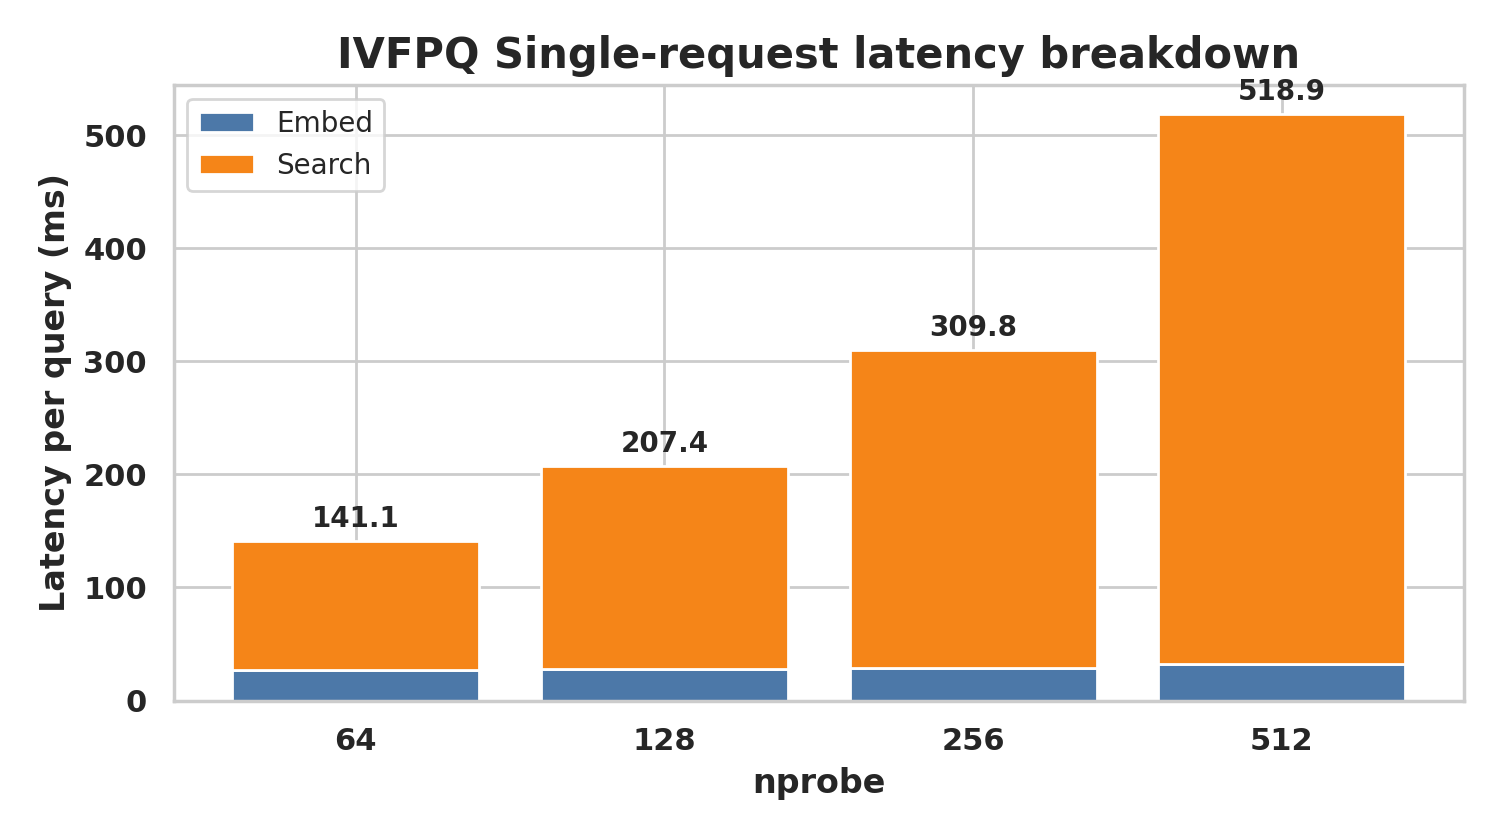
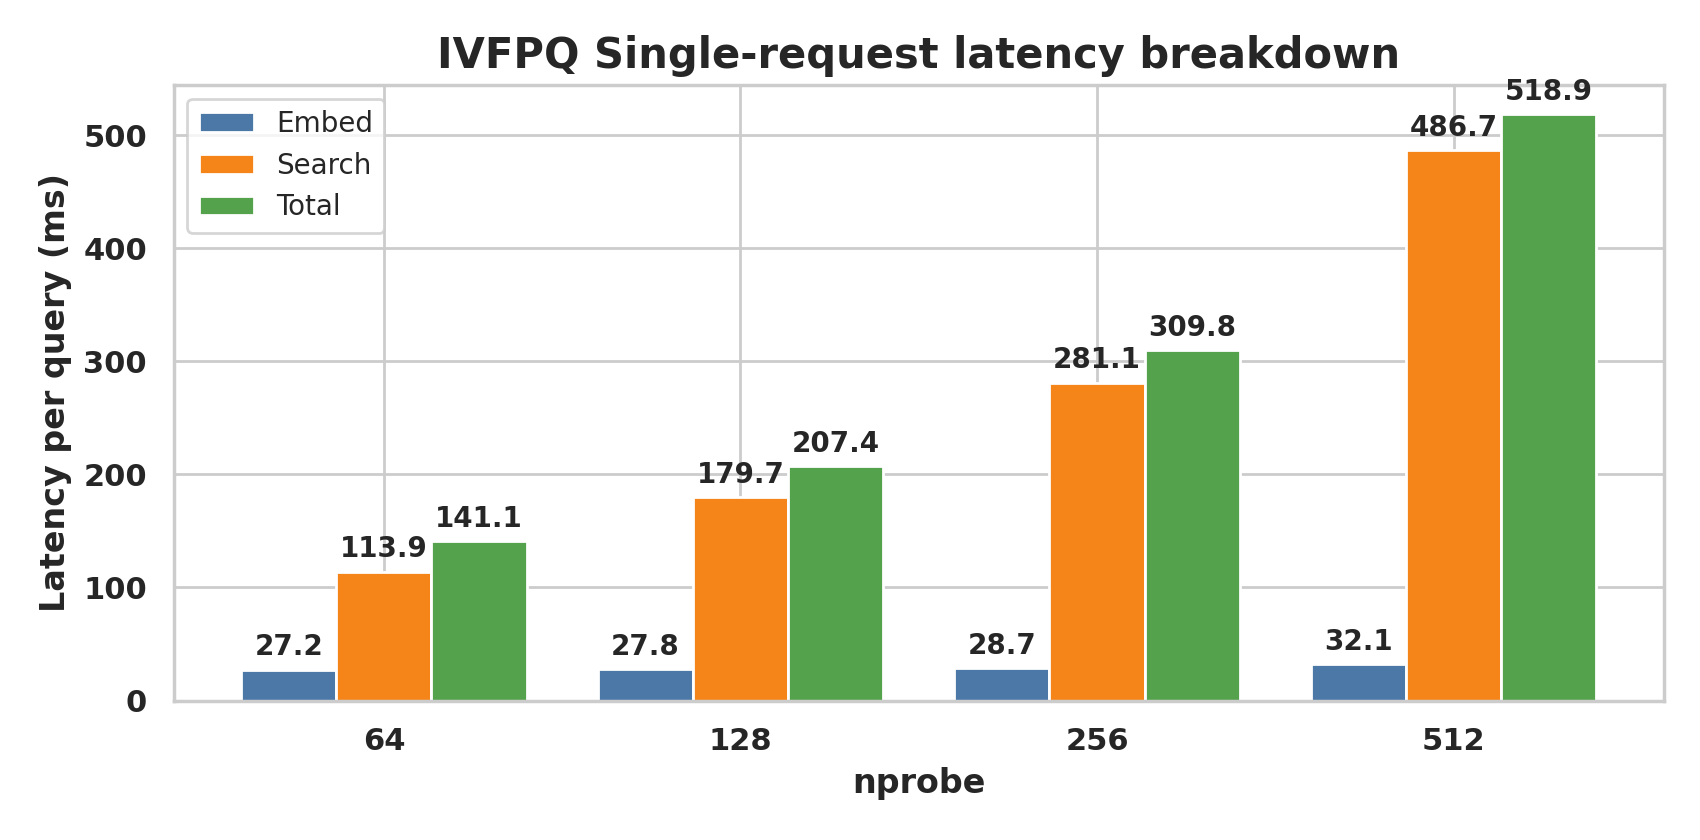
plots caption and layout changes

diff --git a/scripts/plot_faiss_batch_vs_single.py b/scripts/plot_faiss_batch_vs_single.py
@@ -76,29 +76,39 @@ def _plot_qps(rows: List[Dict[str, float]], mode_label: str, filename: str) -> s
 
 def _plot_latency(rows: List[Dict[str, float]], mode_label: str, filename: str) -> str:
     labels = [str(r["nprobe"]) for r in rows]
-    embed = [r["embed"] for r in rows]
-    search = [r["search"] for r in rows]
-    totals = [r["total"] for r in rows]
+    metrics = [
+        ("embed", "Embed", COLOR_EMBED),
+        ("search", "Search", COLOR_SEARCH),
+        ("total", "Total", "#54A24B"),
+    ]
 
-    plt.figure(figsize=(7.5, 4.2))
+    plt.figure(figsize=(8.5, 4.2))
     if sns:
         sns.set_theme(style="whitegrid")
     ax = plt.gca()
-    ax.bar(labels, embed, color=COLOR_EMBED, label="Embed")
-    ax.bar(labels, search, bottom=embed, color=COLOR_SEARCH, label="Search")
 
-    for label, e, s, total in zip(labels, embed, search, totals):
-        ax.annotate(
-            f"{total:.1f}",
-            (label, e + s),
-            ha="center",
-            va="bottom",
-            fontweight="bold",
-            fontsize=10,
-            xytext=(0, 3),
-            textcoords="offset points",
-        )
+    num_metrics = len(metrics)
+    width = 0.8 / num_metrics
+    base_positions = list(range(len(labels)))
 
+    for idx, (key, disp, color) in enumerate(metrics):
+        values = [r[key] for r in rows]
+        offsets = [pos + (idx - (num_metrics - 1) / 2) * width for pos in base_positions]
+        ax.bar(offsets, values, width=width, label=disp, color=color)
+        for x, val in zip(offsets, values):
+            ax.annotate(
+                f"{val:.1f}",
+                (x, val),
+                ha="center",
+                va="bottom",
+                fontweight="bold",
+                fontsize=10,
+                xytext=(0, 3),
+                textcoords="offset points",
+            )
+
+    ax.set_xticks(base_positions)
+    ax.set_xticklabels(labels)
     ax.set_xlabel("nprobe", fontsize=12, fontweight="bold")
     ax.set_ylabel("Latency per query (ms)", fontsize=12, fontweight="bold")
     ax.set_title(f"IVFPQ {mode_label} latency breakdown", fontsize=15, fontweight="bold")

diff --git a/scripts/plot_diskann_single_request_latency.py b/scripts/plot_diskann_single_request_latency.py
@@ -37,7 +37,7 @@ def annotate(ax: plt.Axes, width: float, metrics: List[str]) -> None:
                 continue
             x = group_idx + idx * width - (width * (len(metrics) - 1) / 2)
             ax.annotate(
-                f"{val:.1f}",
+                f"{val:.2f}",
                 (x, val),
                 ha="center",
                 va="bottom",
@@ -75,7 +75,7 @@ def main() -> None:
 
     ax.set_xticks(range(num_groups))
     ax.set_xticklabels(labels)
-    ax.set_xlabel("L (DiskANN list size)", fontsize=13, fontweight="bold")
+    ax.set_xlabel("DiskANN list size L", fontsize=13, fontweight="bold")
     ax.set_ylabel("Latency per request (ms)", fontsize=13, fontweight="bold")
     ax.set_title("DiskANN Single-request Latency Breakdown", fontsize=16, fontweight="bold")
     ax.legend(ncol=4, fontsize=11)

diff --git a/docs/index.md b/docs/index.md
@@ -171,7 +171,7 @@ During search, **DS Serve** initially oversamples a pool of candidates, and then
   <img src="{{ 'accuracy_ivfpq_vs_diskann_triviaqa.png' | relative_url }}" style="width: 45%; margin: 5px;" />
   <img src="{{ 'accuracy_ivfpq_vs_diskann_naturalqs.png' | relative_url }}" style="width: 45%; margin: 5px;" />
 </p>
-<p class="small-note"><b>Note:</b> The latency number shown on the UI measures end-to-end wall-clock time (request setup, network travel, JSON encode/decode, rendering). Our plots use the server-reported <code>timings_ms.total</code>, which only covers embedding + search + post-processing. Expect UI numbers to run higher.</p>
+<p class="small-note"><b>Note:</b> The latency number shown on the UI measures end-to-end wall-clock time (request setup, network travel, JSON encode/decode, rendering). Please be aware QPS and latency can have small fluctuations depending on network speed due online network travels.</p>
 
 ---
 <br/>
